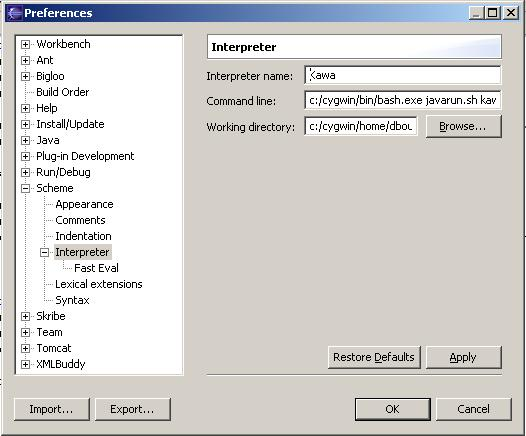
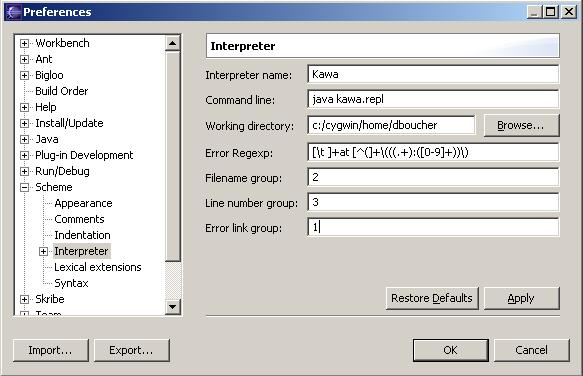
Added a (configurable) line tracker for the Scheme console

diff --git a/html/prefs.html b/html/prefs.html
@@ -95,13 +95,40 @@ the Scheme editor and it's integration with a Scheme interpreter.
 </p>
 <center><img src="images/interpreter.JPG"/></center>
 <p>
-	To set up a Scheme interpreter, you must provide:
+	To set up a Scheme interpreter, you must minimally provide:
 	<ul>
 		<li>the interpreter's name,</li>
 		<li>the command line to start the interpreter, and</li>
 		<li>the directory where the interpreter is started.</li>
 	</ul>
 </p>
+<p>
+	Also, you can specify a regular expression that will be matched 
+	against all lines in the console window to detect error messages
+	with their corresponding file name and line number (the location 
+	of the error). Simply enter a valid (Java) regular expression in 
+	the field named <b>Error Regexp</b>, taking care to have a group 
+	that matches the filename, another group that matches the
+	line number, and a third group that matches the part of the line
+	that should be highlighted as an hyperlink. 
+</p>
+ <p>
+	Here are a few configurations for some Scheme interpreters:
+	<table>
+		<tr><th>Interpreter</th><th width="60%">Error Regexp</th><th>Filename</th><th>Line</th><th>Link</th></tr>
+		<tr><td>MzScheme (with errortrace)</td>
+			<td><code>((([a-z]:)?[^:]+):([0-9]+):[0-9]+): .*</code></td>
+			<td align=center>2</td>
+			<td align=center>4</td>
+			<td align=center>1</td></tr>
+		<tr><td>Kawa </td>
+			<td><code>[\t ]+at [^(]+\(((.+):([0-9]+))\)</code></td>
+			<td align=center>2</td>
+			<td align=center>3</td>
+			<td align=center>1</td></tr>
+	</table>
+	Note that with Kawa, files must be loaded by giving their full path name.
+ </p>
 <h3><a name="fasteval">Fast Eval Keys</a></h3>
 <p>
 	You can configure the Fast Eval keys using the Fast Eval preference page:

diff --git a/html/interp.html b/html/interp.html
@@ -42,6 +42,10 @@
 	Pressing Ctrl-Enter will send to whole expresssion (the <code>define</code>	form)
 	to the interpreter.
 </p>
+<p>
+	The whole editor content can be sent to the interpreter using the <b>Load File in Interpreter</b>
+	command, which is bound to the Ctrl-Shift-L key sequence by default.
+</p>
 
 <h3>Fast Eval keys</h3>
 <p>
@@ -53,6 +57,16 @@
 	For example, suppose that Fast Eval Key #0 is set to <code>(test)</code>. Every time
 	the Fast Eval 0 command is run (by pressing Alt-K 0 by default), the string
 	<code>(test)</code> is sent to the interpreter. 
+</p>
+
+<h3>Extracting error locations</h3>
+<p>
+	When an error occurs in the interpreter, SchemeScript can turn the location
+	of the error into an hyperlink (given that it is appropriately <a href="prefs.html#interp">configured</a>). Here is the
+	result of an interaction with the MzScheme interpreter:
+	<center><img src="images/errorlink.jpg"/></center>
+	Clicking on the hyperlink will open the file containing the error and select
+	the line containing the error.
 </p>
 <hr/>
 <p>
